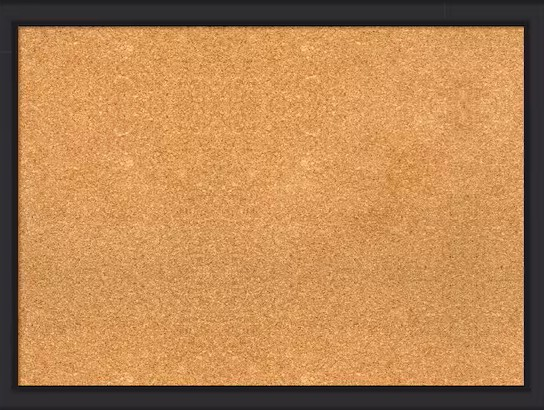
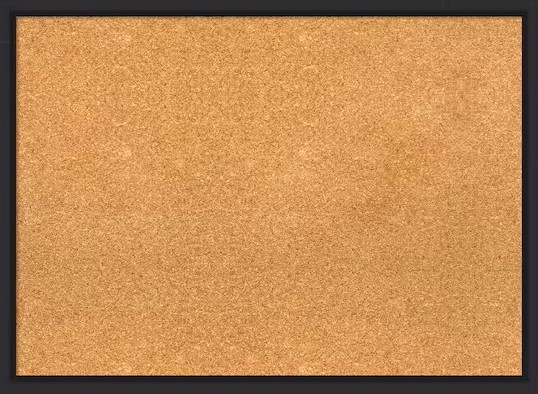
F.??? 😭😭

Changed region(s): [[0.0297, 0.0305, 0.9814, 0.9746]]

diff --git a/tutorials/06-final/Code/scenes.js b/tutorials/06-final/Code/scenes.js
@@ -3,10 +3,8 @@
 function intro () {
  
   this.setup = function() {
-    textSize(30);
-    background(225);
 
-//button 1
+    //button 1
       gui = createGui();
       N = createButton("Next", 560, 600, 150, 50); // x, y, width, height
     }
@@ -14,10 +12,10 @@ function intro () {
  
     this.draw = function() {
      background(225);
-       image(s2, 0 , 0 , width, height);
+     image(s2, 0 , 0 , width, height);
     
 
-//Text
+      //Text
      textAlign(CENTER);
      textSize(40);
      
@@ -134,10 +132,10 @@ function ins2() {
 
     this.dots = [
       [140,250],
-      [500,150],
-      [350,500],
-      [800,580]
-      //[500,600],
+      [620,150],
+      [300,600],
+      [700,500]
+      
     
     ];
 
@@ -145,19 +143,38 @@ function ins2() {
   }
 
   this.draw = function() {
+    //background
        background(225);
        image(s3, 0 , 0 , width, height);
+
+   //crime board images
+    image(b1, 370 , 300 , 200, 200);
+    image(b2, 80 , 200 , 200, 200);
+    image(b3, 270 , 540 , 200, 200);
+    image(b4, 605 , 100 , 200, 200);
+    image(b5, 50 , 450 , 200, 200);
+    image(b6, 645 , 350 , 200, 200);
+    //decorations
+    image(b5, 700 , 600 , 150, 150);
+    image(b5, 400 , 90 , 150, 150);
+
+
    //text
     textAlign(CENTER);
     textSize(30);
     text("Connect the Evidence ", 200, 130);
 
+    //dots
 
     for (let d of this.dots) {
       circle(d[0], d[1], 20);
     }
 
     for (let i = 0; i < this.step; i++) {
+      //color and thickness of line
+      stroke(128, 0, 32);
+      strokeWeight(5);
+
       line(
         this.dots[i][0],
         this.dots[i][1],
@@ -165,9 +182,26 @@ function ins2() {
         this.dots[i + 1][1]
       );
     }
-  }
 
-  
+
+    // close final connection
+  if (this.step >= this.dots.length - 1) {
+
+    line(
+      this.dots[this.dots.length - 1][0],
+      this.dots[this.dots.length - 1][1],
+
+      this.dots[0][0],
+      this.dots[0][1]
+    );
+
+    //Next button
+     drawGui();
+     if (N.isPressed) {
+       mgr.showScene(ins3);
+     }
+  }
+  }
 
   this.mousePressed = function() {
 
@@ -178,27 +212,65 @@ function ins2() {
       this.step++;
     }
 
-
-    // Finished square
-    if (currentDot === dots.length - 1) {
-      // Connect back to start
-      ctx.beginPath();
-      ctx.moveTo(dots[dots.length - 1].x, dots[dots.length - 1].y);
-      ctx.lineTo(dots[0].x, dots[0].y);
-      ctx.stroke();
-
-      setTimeout(() => {
-        alert("Square completed!");
-      }, 100);
-    }
   }
 }
-//////////////////////  Paperwork  ////////////////////////
+//////////////////////  suspect //////////////////////// 
 
 function ins3()  {
 
+  this.setup = function() {
+    
+    
+    }
+ 
+ 
+    this.draw = function() {
+     background(225);
+       image(s2, 0 , 0 , width, height);
+    
+
+  //Text
+     textAlign(CENTER);
+     textSize(30);
+     
+     text("A witness came foward! Help her identify the suspect.", width/2,600);
+     text("He had blonde hair, etc", width/2,650);
+     
+     //Next button
+     drawGui();
+     if (N.isPressed) {
+       mgr.showScene(ins4);
+     }
+  };
 
  }
 
+
+
+////////////////////// Ending  //////////////////////// 
+
+ function ins4()  {
+
+  this.setup = function() {
+  }
+  
+    this.draw = function() {
+     background(225);
+       image(s2, 0 , 0 , width, height);
+    
+
+  //Text
+     textAlign(CENTER);
+     textSize(30);
+     
+     text("After interrogation, your partner was found alive", width/2,100);
+     text("Good job Agent!", width/2,150);
+     text("Not ready to go yet?", width/2,650);
+     text("Continue to explore the website", width/2,700);
+     
+  };
+
+ }
+ 
 
  

diff --git a/tutorials/06-final/Code/other/profile/index.html b/tutorials/06-final/Code/other/profile/index.html
@@ -4,7 +4,7 @@
 <head>
     <meta charset="UTF-8">
     <meta name="viewport" content="width=device-width, initial-scale=1.0">
-    <title>Racoon </title>
+    <title>Employee Form </title>
     <link rel="stylesheet" href="../../style.css">
 </head>
 
@@ -41,8 +41,8 @@
                 <input type="text" id="custom" placeholder="Kylo, Jean, Bbrnes">
 
                  <!-- Label and text input for custom entry -->
-                <label for="custom">Species:</label>
-                <input type="text" id="custom" placeholder="Human,Twilek, Toguta,">
+                <label for="custom2">Species:</label>
+                <input type="text" id="custom2" placeholder="Human,Twilek, Toguta,">
 
                 <!--Dropdown, predefined choices -->
                 <label for="choice-type">Gender:</label>
@@ -55,8 +55,8 @@
                 </select>
 
                   <!--Dropdown, predefined choices -->
-                <label for="choice-type">Position:</label>
-                <select id="choice-type">
+                <label for="choice-type2">Position:</label>
+                <select id="choice-type2">
                     <option value="">Classified</option>
                     <option value="Agent">Agent</option>
                     <option value="Forensic">Forensic</option>
@@ -72,21 +72,18 @@
 
          </div>  
 
-          <!-- Carousel section for quick-add images -->
+          <!-- Carousel section -->
+
+
             <section id="carousel-section">
                 <h2>Status</h2>
                 <div class="carousel-container">
-                    <!-- Previous button for carousel navigation -->
-                    <button id="prev-btn">&lt;</button>
                     <!-- Carousel images container -->
                     <div class="carousel">
-                        <img src="../../assets/S1.gif" alt="On duty" data-item="On duty">
-                        <img src="../../assets/b1.png" alt="Medical Leave" data-item="Medical Leave">
                         <img src="../../assets/S1.gif" alt="Dead" data-item="Dead">
-                        <img src="../../assets/b1.png" alt="MIA Food" data-item="MIA">
+                        <img src="../../assets/S2.gif" alt="Medical Leave" data-item="Medical Leave">
+                        <img src="../../assets/S3.gif" alt="On duty" data-item="MIA">
                     </div>
-                    <!-- Next button for carousel navigation -->
-                    <button id="next-btn">&gt;</button>
                 </div>
             </section>
            <!-- Section to display the shopping list -->

diff --git a/tutorials/06-final/Code/other/profile/webcam.js b/tutorials/06-final/Code/other/profile/webcam.js
@@ -19,13 +19,13 @@ async function startWebcam(params) {
 startWebcam();
 
 
-///////////////////////////// Kitchen ///////////////
+///////////////////////////// Employee profile submission ///////////////
 
 
 // Variable to track the current slide in the carousel
 let currentSlide = 0;
 
-// Function to add an item to the shopping list
+// Function to add an item to the list
 function addToList(item) {
     // Get the <ul> element for the list
     const list = document.getElementById('list');
@@ -50,10 +50,10 @@ function updateCarousel() {
 document.getElementById('form').addEventListener('submit', function(e) {
     // Prevent the default form submission behavior (which would reload the page)
     e.preventDefault();
-    // Get the selected value from the dropdown
+    // 
     const selected = document.getElementById('choice-type').value;
-    // Get the value from the text input, trimmed of whitespace
     const custom = document.getElementById('custom').value.trim();
+   
     // Determine the milk type: use dropdown if selected, otherwise use text input
     const Type = selected || custom;
     // If a valid milk type is provided, add it to the list
@@ -62,26 +62,12 @@ document.getElementById('form').addEventListener('submit', function(e) {
         // Reset both the dropdown and text input
         document.getElementById('choice-type').value = '';
         document.getElementById('custom').value = '';
+     
     }
 });
 
-// Event listeners for carousel navigation buttons
-document.getElementById('prev-btn').addEventListener('click', function() {
-    // Move to the previous slide if not at the first
-    if (currentSlide > 0) {
-        currentSlide--;
-        updateCarousel();
-    }
-});
 
-document.getElementById('next-btn').addEventListener('click', function() {
-    // Move to the next slide if not at the last
-    const totalSlides = document.querySelectorAll('.carousel img').length;
-    if (currentSlide < totalSlides - 1) {
-        currentSlide++;
-        updateCarousel();
-    }
-});
+
 
 // Event listeners for clicking carousel images to add to list
 document.querySelectorAll('.carousel img').forEach(img => {

diff --git a/tutorials/06-final/Code/other/files/index.html b/tutorials/06-final/Code/other/files/index.html
@@ -1,0 +1,34 @@
+
+<!DOCTYPE html>
+<html>
+<head>
+  <title>Collect Text</title>
+</head>
+<body>
+
+<h3>Enter text below:</h3>
+
+<textarea id="input" rows="10" cols="40"></textarea>
+<br><br>
+
+<button onclick="showText()">Show Text</button>
+<button onclick="copyText()">Copy Text</button>
+
+<h3>Output:</h3>
+<pre id="output"></pre>
+
+<script>
+function showText() {
+  const text = document.getElementById("input").value;
+  document.getElementById("output").innerText = text;
+}
+
+function copyText() {
+  const text = document.getElementById("input").value;
+  navigator.clipboard.writeText(text);
+  alert("Copied to clipboard!");
+}
+</script>
+
+</body>
+</html>

diff --git a/tutorials/06-final/Code/style.css b/tutorials/06-final/Code/style.css
@@ -213,7 +213,7 @@ input[type="text"] {
 
 /* Button styles */
 button {
-    background-color: #007bff; /* Blue button */
+    background-color: #994e4e; /* Blue button */
     color: white;
     border: none;
     border-radius: 5px;
@@ -258,8 +258,7 @@ button:hover {
 .carousel {
     display: flex;
     overflow: hidden;
-    width: 300px; /* Adjust based on image size */
-    transition: transform 0.3s ease; /* Smooth sliding transition */
+    width: 800px; 
 }
 
 /* Individual image styles in carousel */

diff --git a/tutorials/06-final/Code/sketch.js b/tutorials/06-final/Code/sketch.js
@@ -44,6 +44,7 @@ function setup() {
   mgr.addScene(ins1);
   mgr.addScene(ins2);
   mgr.addScene(ins3);
+  mgr.addScene(ins4);
 
   mgr.showNextScene();
 }
@@ -98,6 +99,7 @@ function keyPressed(){
     if (key === "2") mgr.showScene(ins1);
     if (key === "3") mgr.showScene(ins2);
     if (key === "4") mgr.showScene(ins3);
+     if (key === "5") mgr.showScene(ins4);
            
     }
 

diff --git a/tutorials/06-final/Code/index.html b/tutorials/06-final/Code/index.html
@@ -39,7 +39,7 @@
   <div id="scenemg"></div>
   <div id="ui-panel">
     <h2>✮ ⋆ ˚｡ Welcome back Agent ⋆｡°✩</h2>
-    <p>Press 1-4 to navigate</p>
+    <p>Press 1-5 to navigate</p>
   
     <p>Solved the case? </p>
   <a href="other/profile/index.html">File a report</a>

diff --git a/tutorials/06-final/Code/other/files/file.js b/tutorials/06-final/Code/other/files/file.js
@@ -1,0 +1,6 @@
+let username;
+
+
+
+let username = window.prompt("What's your username?");
+console.log(username);
